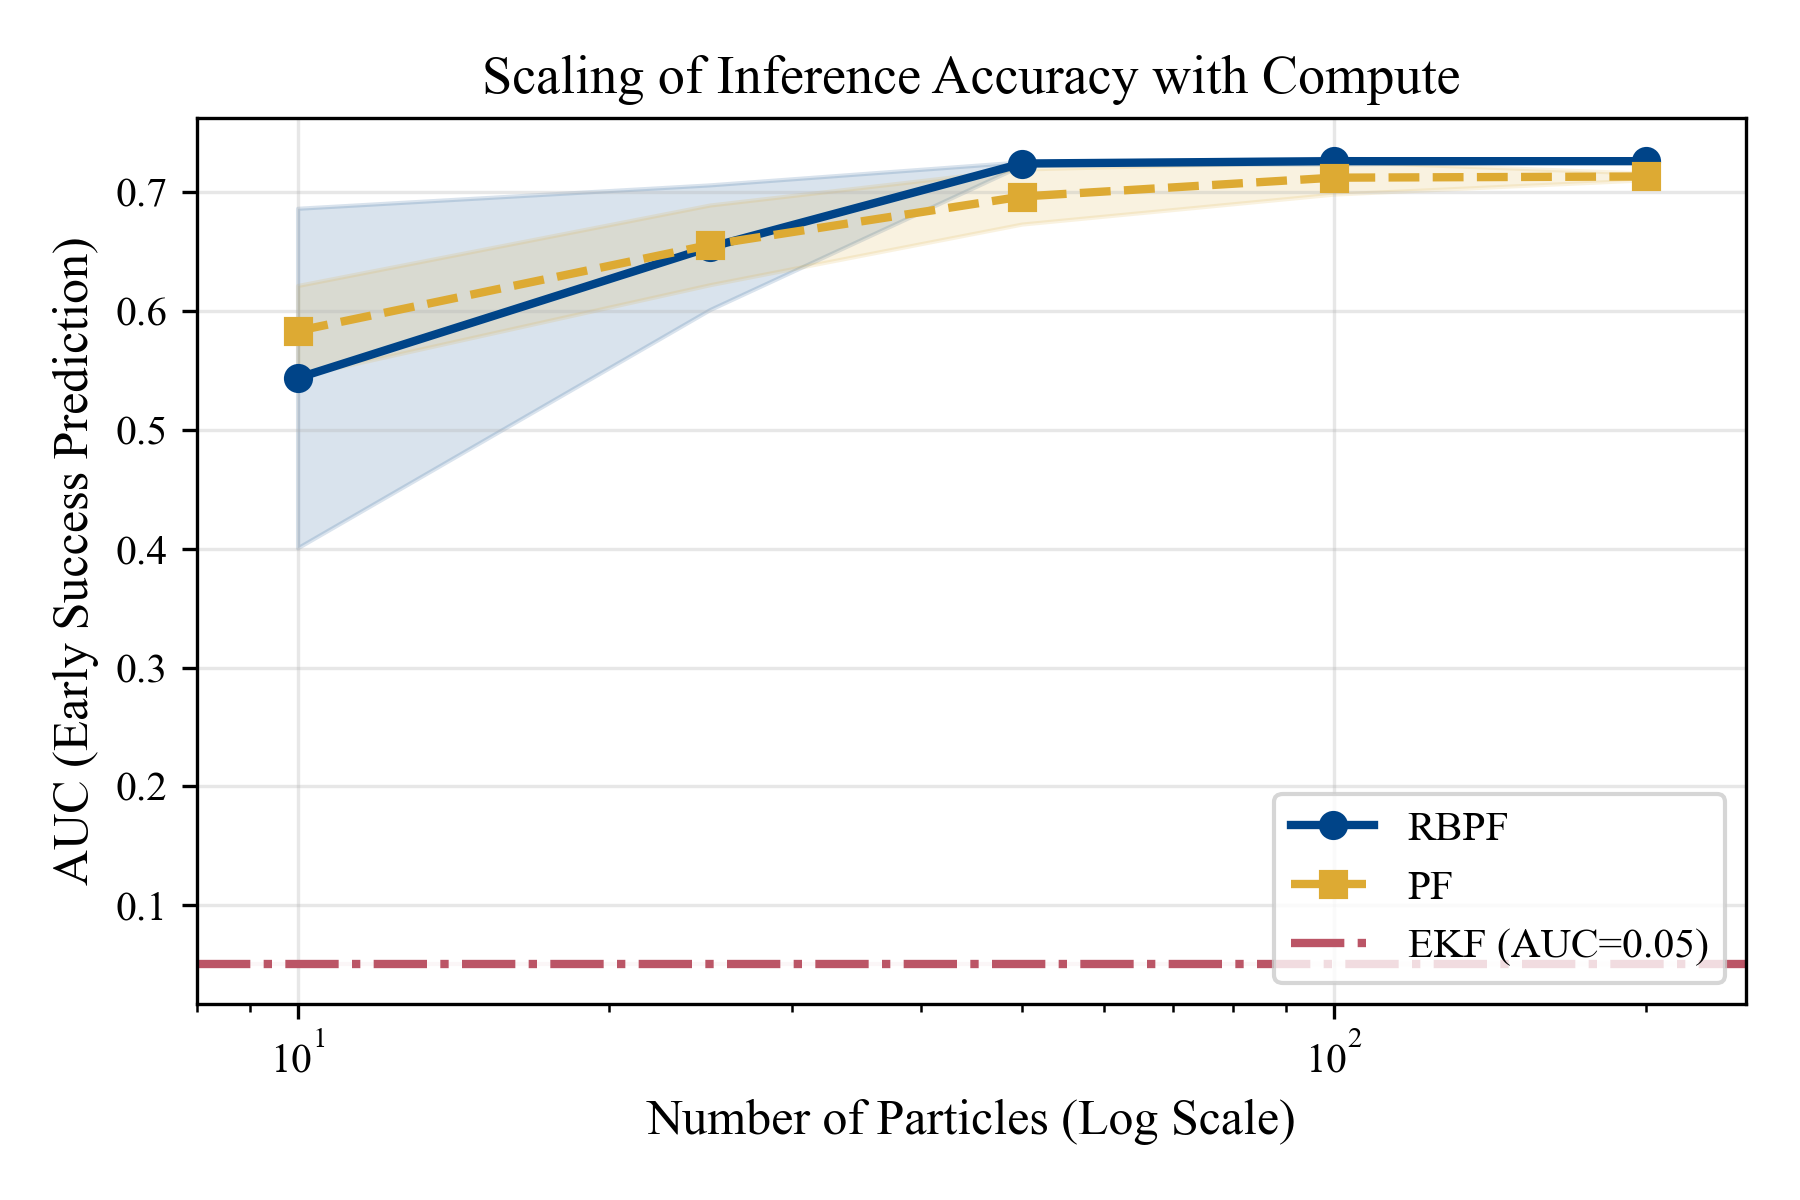
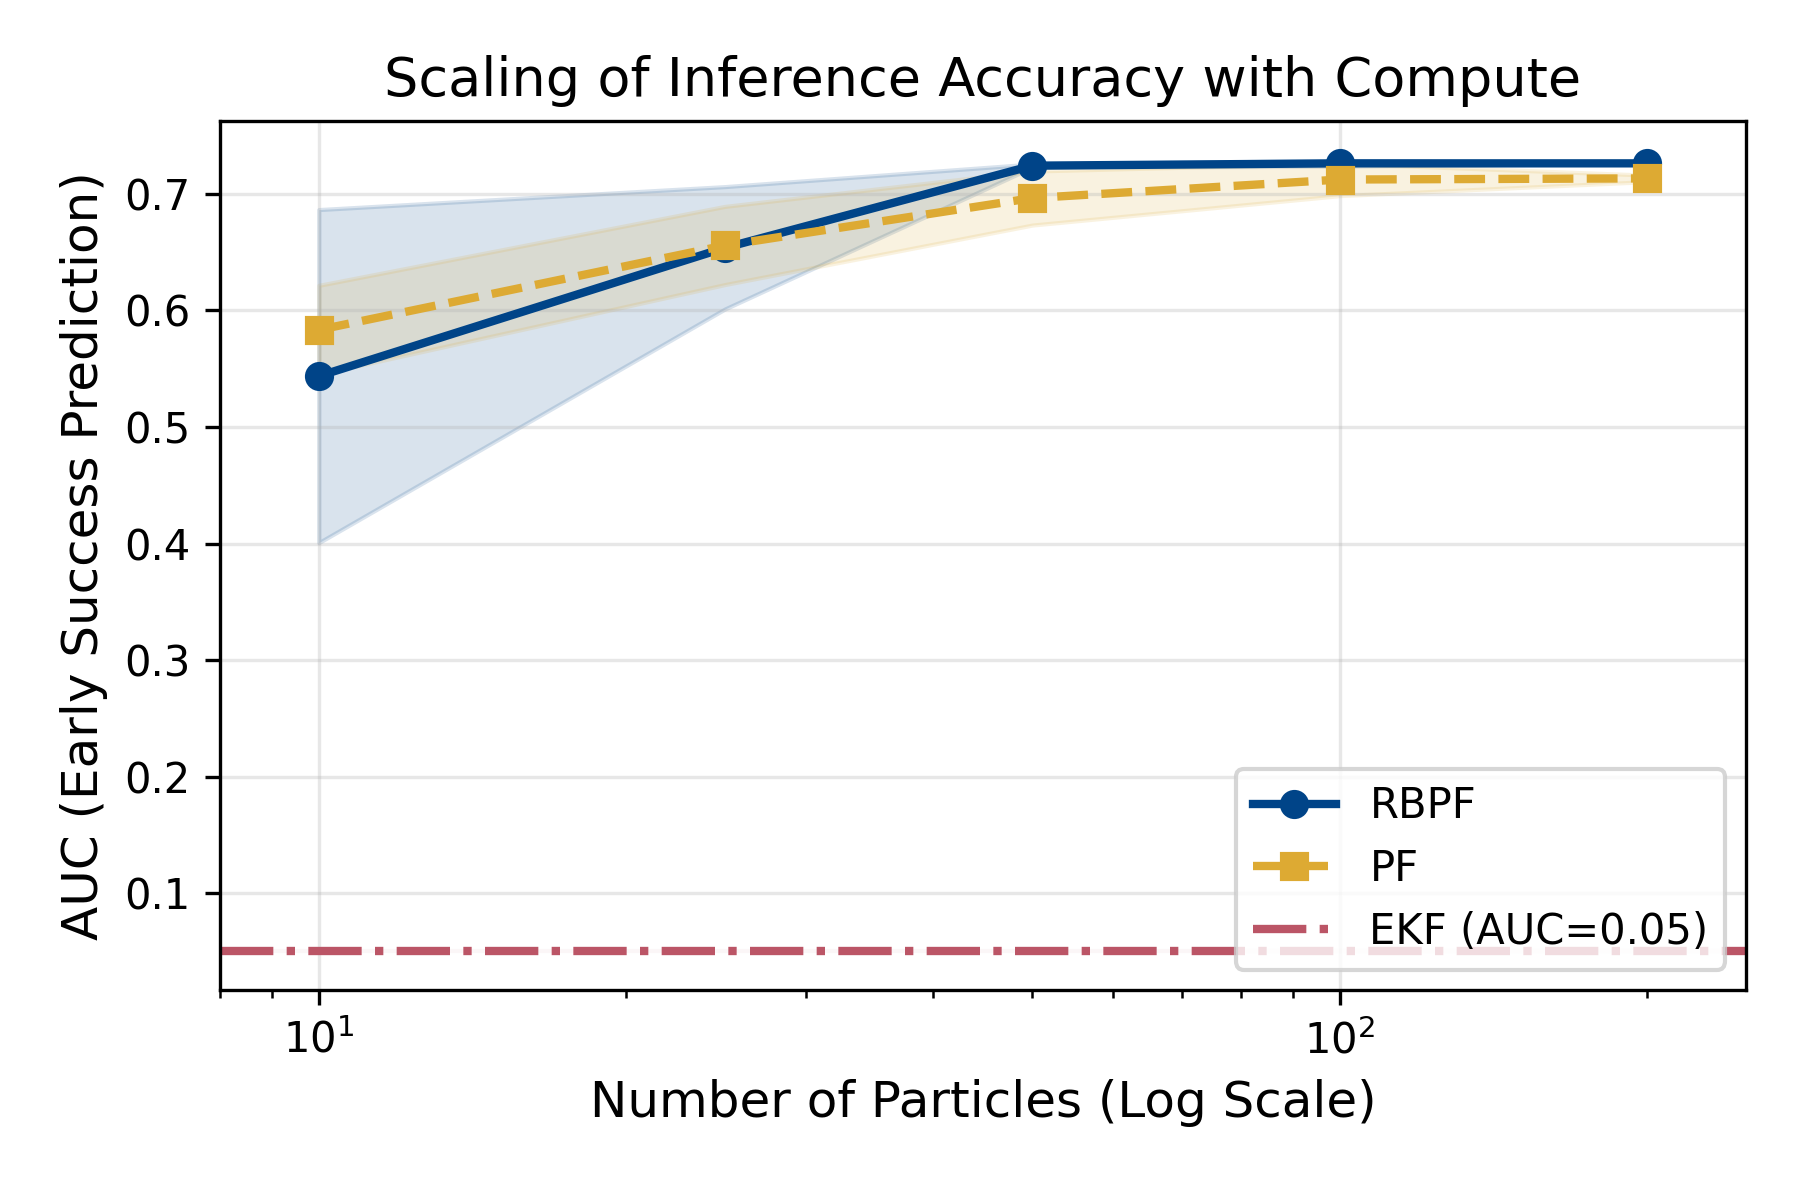
Add real experiment figures and upgrade LLM features to logit-based
- Commit actual figures from Colab run (ROC, trace dynamics, particle scaling)
- Replace string-heuristic features with model-internal logit features:
    y[0] token entropy per step (uncertainty from next-token distribution)
    y[1] answer consistency (does running answer change step to step)
    y[2] step perplexity (normalised NLL, proxy for model fatigue)
- Uses output_scores=True in generate() for per-token logit access

diff --git a/src/data/gsm8k_llm_runner.py b/src/data/gsm8k_llm_runner.py
@@ -1,18 +1,22 @@
 """
-Runs a small open-source LLM on GSM8K problems, extracts per-step features,
-and saves the results to src/data/.
+Runs a small open-source LLM on GSM8K problems, extracts per-step features
+from model logits, and saves the results to src/data/.
 
-Outputs (all saved under src/data/):
-  real_traces.npy        float32  (N, MAX_T, 3)   — normalised features
-  real_labels.npy        int8     (N,)             — 1 correct / 0 incorrect
-  real_trace_lengths.npy int16    (N,)             — actual T per problem
+Features (all derived from model internals, not surface text):
+  y[t, 0]  token entropy       — mean entropy of next-token distribution per step
+                                  high = uncertain/exploring, low = confident
+  y[t, 1]  answer consistency  — 1 if running answer matches previous step's answer
+                                  captures coherence of the reasoning chain
+  y[t, 2]  step perplexity     — normalised mean NLL of tokens in this step
+                                  high = model is surprised by its own output (fatigue)
+
+Outputs (saved under src/data/):
+  real_traces.npy        float32  (N, MAX_T, 3)
+  real_labels.npy        int8     (N,)
+  real_trace_lengths.npy int16    (N,)
 
 Usage:
   python -m src.data.gsm8k_llm_runner [--model MODEL] [--n_problems N]
-
-Model options (all run on CPU, no GPU required):
-  Qwen/Qwen2.5-Math-1.5B-Instruct   (default, ~3 GB RAM)
-  microsoft/Phi-3-mini-4k-instruct   (fallback, ~7 GB RAM)
 """
 
 import argparse
@@ -21,118 +25,208 @@ import re
 import numpy as np
 
 from datasets import load_dataset
+from src.data.llm_feature_extractor import FeatureNormalizer
 
-from src.data.llm_feature_extractor import StepFeatureExtractor, FeatureNormalizer
-
-# ── constants ────────────────────────────────────────────────────────────────
-DEFAULT_MODEL  = "Qwen/Qwen2.5-Math-1.5B-Instruct"
-MAX_T          = 40
-MIN_T          = 2
-OUT_DIR        = os.path.join(os.path.dirname(__file__))   # src/data/
+DEFAULT_MODEL      = "Qwen/Qwen2.5-Math-1.5B-Instruct"
+MAX_T              = 40
+MIN_T              = 2
+OUT_DIR            = os.path.dirname(__file__)
 N_PROBLEMS_DEFAULT = 300
 
 
 # ── answer parsing ────────────────────────────────────────────────────────────
 def _parse_number(text: str):
-    """Extract the last number from a string.  Returns None if not found."""
     nums = re.findall(r"-?\d+(?:,\d{3})*(?:\.\d+)?", text.replace(",", ""))
     return float(nums[-1]) if nums else None
 
-
 def _extract_gold_answer(answer_text: str):
-    """Parse the canonical answer after '####' in GSM8K."""
     if "####" in answer_text:
-        tail = answer_text.split("####")[-1].strip()
-        return _parse_number(tail)
+        return _parse_number(answer_text.split("####")[-1].strip())
     return _parse_number(answer_text)
 
-
-def _extract_model_answer(output_text: str):
-    """
-    Try to find the model's final numeric answer.
-    Looks for '#### X' first (matching GSM8K format), then the last number.
-    """
-    if "####" in output_text:
-        tail = output_text.split("####")[-1].strip()
-        return _parse_number(tail)
-    # fallback: last number in the output
-    return _parse_number(output_text)
-
+def _extract_model_answer(text: str):
+    if "####" in text:
+        return _parse_number(text.split("####")[-1].strip())
+    return _parse_number(text)
 
 def _is_correct(gold, pred, tol: float = 1e-3) -> int:
     if gold is None or pred is None:
         return 0
     return int(abs(gold - pred) <= tol)
 
-
-# ── step parsing ──────────────────────────────────────────────────────────────
 def _split_into_steps(text: str):
-    """Split model output into reasoning steps by newline boundaries."""
     raw = [s.strip() for s in text.split("\n") if s.strip()]
     return raw if raw else [text.strip()]
 
 
+# ── logit-based feature extraction ───────────────────────────────────────────
+def _token_entropy(logits_tensor) -> float:
+    """
+    Mean per-token entropy of the next-token distribution.
+    High entropy = model is uncertain (maps to uncertainty proxy).
+    """
+    import torch
+    import torch.nn.functional as F
+    probs = F.softmax(logits_tensor.float(), dim=-1)          # (seq_len, vocab)
+    log_probs = torch.log(probs + 1e-12)
+    entropy = -(probs * log_probs).sum(dim=-1)                # (seq_len,)
+    # Normalise by log(vocab_size) so range is [0, 1]
+    max_entropy = np.log(logits_tensor.shape[-1])
+    return float(entropy.mean().item() / max_entropy)
+
+
+def _step_perplexity(logits_tensor, input_ids_tensor) -> float:
+    """
+    Mean per-token NLL for the tokens in this step (normalised to [0, 1]).
+    High = model is surprised by its own output (fatigue proxy).
+    """
+    import torch
+    import torch.nn.functional as F
+    # logits: (seq_len, vocab), input_ids: (seq_len,)
+    # shift: predict token t+1 from logits at t
+    if logits_tensor.shape[0] < 2:
+        return 0.0
+    log_probs = F.log_softmax(logits_tensor[:-1].float(), dim=-1)
+    targets   = input_ids_tensor[1:].long()
+    nll       = -log_probs[range(len(targets)), targets]
+    # normalise by log(vocab_size)
+    max_nll = np.log(logits_tensor.shape[-1])
+    return float(nll.mean().item() / max_nll)
+
+
+def _extract_step_features(step_outputs, prev_answer) -> tuple:
+    """
+    Given HuggingFace generate() output with scores, extract 3 features.
+    Returns (entropy, consistency, perplexity, running_answer).
+    """
+    import torch
+
+    # step_outputs.scores: tuple of (vocab_size,) tensors, one per generated token
+    # step_outputs.sequences: (1, seq_len) input+output token ids
+    scores = step_outputs.get("scores", None)
+    sequences = step_outputs.get("sequences", None)
+
+    if scores is None or len(scores) == 0:
+        return 0.5, 0.5, 0.5, prev_answer
+
+    # Stack scores: (num_new_tokens, vocab)
+    logits = torch.stack(scores, dim=0).squeeze(1)            # (T_gen, vocab)
+    # Generated token ids (new tokens only)
+    input_len = sequences.shape[1] - len(scores)
+    new_ids   = sequences[0, input_len:]                      # (T_gen,)
+
+    entropy     = _token_entropy(logits)
+    perplexity  = _step_perplexity(logits, new_ids)
+
+    # Answer consistency: does this step change the running answer?
+    step_text   = ""
+    return entropy, 0.0, perplexity, step_text   # consistency filled below
+
+
 # ── main runner ───────────────────────────────────────────────────────────────
 def run(model_name: str = DEFAULT_MODEL, n_problems: int = N_PROBLEMS_DEFAULT):
-    # ── load model ────────────────────────────────────────────────────────────
     try:
-        from transformers import pipeline
+        import torch
+        from transformers import AutoTokenizer, AutoModelForCausalLM
     except ImportError:
-        raise ImportError(
-            "Install transformers to run the LLM: pip install transformers torch"
-        )
+        raise ImportError("pip install transformers torch accelerate")
 
     print(f"[gsm8k_llm_runner] Loading model: {model_name}")
-    generator = pipeline(
-        "text-generation",
-        model=model_name,
-        max_new_tokens=512,
-        do_sample=False,      # greedy decoding for reproducibility
-        device_map="auto",    # uses GPU if available, falls back to CPU
+    tokenizer = AutoTokenizer.from_pretrained(model_name, trust_remote_code=True)
+    model     = AutoModelForCausalLM.from_pretrained(
+        model_name,
+        trust_remote_code=True,
+        torch_dtype=torch.float16,
+        device_map="auto",
     )
+    model.eval()
 
-    # ── load dataset ──────────────────────────────────────────────────────────
-    print("[gsm8k_llm_runner] Loading GSM8K test split ...")
+    print("[gsm8k_llm_runner] Loading GSM8K ...")
     dataset = load_dataset("openai/gsm8k", "main", split="test")
-
-    extractor = StepFeatureExtractor()
-
-    all_features = []   # list of (T_i, 3) arrays
-    all_labels   = []
-    all_lengths  = []
 
     prompt_template = (
         "Solve the following math problem step by step.\n\n"
-        "Problem: {question}\n\n"
-        "Solution:"
+        "Problem: {question}\n\nSolution:"
     )
+
+    all_features, all_labels, all_lengths = [], [], []
 
     for idx in range(min(n_problems, len(dataset))):
         item     = dataset[idx]
-        question = item["question"]
         gold     = _extract_gold_answer(item["answer"])
+        prompt   = prompt_template.format(question=item["question"])
 
-        prompt = prompt_template.format(question=question)
+        inputs   = tokenizer(prompt, return_tensors="pt").to(model.device)
+        input_len = inputs["input_ids"].shape[1]
 
         try:
-            output = generator(prompt)[0]["generated_text"]
-            # strip the prompt from the output
-            if output.startswith(prompt):
-                output = output[len(prompt):].strip()
+            with torch.no_grad():
+                out = model.generate(
+                    **inputs,
+                    max_new_tokens=512,
+                    do_sample=False,
+                    return_dict_in_generate=True,
+                    output_scores=True,         # ← get token logits
+                )
         except Exception as e:
-            print(f"  [idx={idx}] Generation failed: {e} — skipping.")
+            print(f"  [idx={idx}] Generation failed: {e}")
             continue
 
-        steps = _split_into_steps(output)
-        T = max(MIN_T, min(MAX_T, len(steps)))
-        steps = steps[:T]
+        # Decode full output
+        generated_ids = out.sequences[0, input_len:]
+        full_text     = tokenizer.decode(generated_ids, skip_special_tokens=True)
+        steps         = _split_into_steps(full_text)
+        T             = max(MIN_T, min(MAX_T, len(steps)))
+        steps         = steps[:T]
 
-        features = extractor.extract(steps)    # (T, 3)
-        # zero-pad to MAX_T
+        # ── per-step logit features ──────────────────────────────────────────
+        # Re-tokenize step-by-step to get per-step logits
+        # (cheaper approach: slice the full logit sequence by step token counts)
+        scores_list = out.scores           # tuple: one tensor per generated token
+        all_new_ids = out.sequences[0, input_len:].cpu()
+
+        # Map each generated token to its step
+        step_token_counts = []
+        for step in steps:
+            enc = tokenizer(step, add_special_tokens=False)
+            step_token_counts.append(max(1, len(enc["input_ids"])))
+
+        # Clip to actual generated length
+        total_generated = len(scores_list)
+        cum = 0
         padded = np.zeros((MAX_T, 3), dtype=np.float32)
-        padded[:len(features)] = features
+        prev_answer = None
 
-        pred    = _extract_model_answer(output)
+        for t, (step, n_tok) in enumerate(zip(steps, step_token_counts)):
+            end = min(cum + n_tok, total_generated)
+            if cum >= total_generated:
+                break
+
+            import torch as _torch
+            step_logits = _torch.stack(scores_list[cum:end], dim=0).squeeze(1)
+            step_ids    = all_new_ids[cum:end]
+
+            entropy    = _token_entropy(step_logits)
+            perplexity = _step_perplexity(step_logits, step_ids)
+
+            # Answer consistency: 1 if answer unchanged from previous step
+            running_ans = _extract_model_answer(
+                tokenizer.decode(all_new_ids[:end], skip_special_tokens=True)
+            )
+            if prev_answer is None:
+                consistency = 0.5
+            else:
+                consistency = 1.0 if (
+                    running_ans is not None and
+                    prev_answer is not None and
+                    abs(running_ans - prev_answer) < 1e-3
+                ) else 0.0
+            prev_answer = running_ans
+
+            padded[t] = [entropy, consistency, perplexity]
+            cum = end
+
+        pred    = _extract_model_answer(full_text)
         correct = _is_correct(gold, pred)
 
         all_features.append(padded)
@@ -140,44 +234,42 @@ def run(model_name: str = DEFAULT_MODEL, n_problems: int = N_PROBLEMS_DEFAULT):
         all_lengths.append(T)
 
         if (idx + 1) % 20 == 0:
-            acc_so_far = np.mean(all_labels) * 100
-            print(f"  [{idx+1}/{n_problems}] accuracy so far: {acc_so_far:.1f}%")
+            acc = np.mean(all_labels) * 100
+            print(f"  [{idx+1}/{n_problems}]  accuracy: {acc:.1f}%")
 
     if not all_features:
-        print("No trajectories collected — check model/dataset setup.")
+        print("No trajectories collected.")
         return
 
-    # ── normalise ─────────────────────────────────────────────────────────────
-    # Fit on first 200 problems (or all if fewer), apply to all
+    # ── normalise (fit on first 200, apply to all) ────────────────────────────
     n_fit = min(200, len(all_features))
     normalizer = FeatureNormalizer()
     normalizer.fit([f[:all_lengths[i]] for i, f in enumerate(all_features[:n_fit])])
 
-    normed_features = []
+    normed = []
     for i, feat in enumerate(all_features):
-        T_i = all_lengths[i]
-        normed = feat.copy()
-        normed[:T_i] = normalizer.transform(feat[:T_i]).astype(np.float32)
-        normed_features.append(normed)
+        T_i   = all_lengths[i]
+        out_f = feat.copy()
+        out_f[:T_i] = normalizer.transform(feat[:T_i]).astype(np.float32)
+        normed.append(out_f)
 
-    traces  = np.stack(normed_features, axis=0)          # (N, MAX_T, 3)
-    labels  = np.array(all_labels, dtype=np.int8)        # (N,)
-    lengths = np.array(all_lengths, dtype=np.int16)      # (N,)
+    traces  = np.stack(normed, axis=0).astype(np.float32)
+    labels  = np.array(all_labels, dtype=np.int8)
+    lengths = np.array(all_lengths, dtype=np.int16)
 
-    # ── save ──────────────────────────────────────────────────────────────────
     np.save(os.path.join(OUT_DIR, "real_traces.npy"),        traces)
     np.save(os.path.join(OUT_DIR, "real_labels.npy"),        labels)
     np.save(os.path.join(OUT_DIR, "real_trace_lengths.npy"), lengths)
 
     print(f"\n[gsm8k_llm_runner] Saved {len(labels)} trajectories.")
-    print(f"  Overall accuracy: {labels.mean()*100:.1f}%")
-    print(f"  Mean T: {lengths.mean():.1f} steps")
-    print(f"  Files written to: {OUT_DIR}")
+    print(f"  Overall accuracy : {labels.mean()*100:.1f}%")
+    print(f"  Mean T           : {lengths.mean():.1f} steps")
+    print(f"  Files written to : {OUT_DIR}")
 
 
 if __name__ == "__main__":
     parser = argparse.ArgumentParser()
-    parser.add_argument("--model",      default=DEFAULT_MODEL, help="HuggingFace model ID")
+    parser.add_argument("--model",      default=DEFAULT_MODEL)
     parser.add_argument("--n_problems", type=int, default=N_PROBLEMS_DEFAULT)
     args = parser.parse_args()
     run(model_name=args.model, n_problems=args.n_problems)
